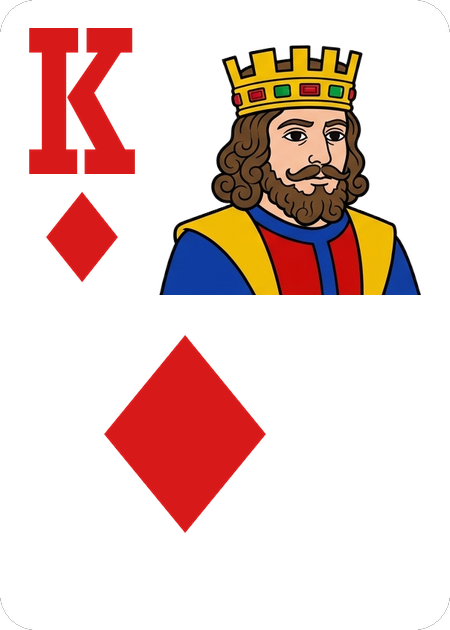
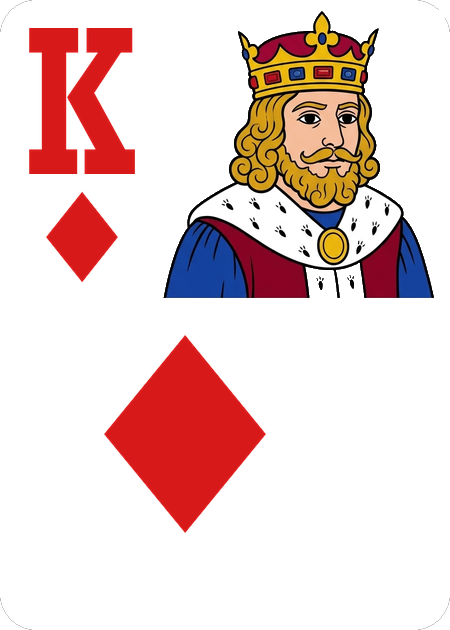
Update Vintage Crest red Kings (K♥, K♦) with blonde hair & crimson-ermine robe (#28, v1.0.26)

Changed region(s): [[0.3422, 0.0, 0.9644, 0.4825]]

diff --git a/app/src/test/java/com/videopoker/android/CardDeckTest.kt b/app/src/test/java/com/videopoker/android/CardDeckTest.kt
@@ -5,6 +5,8 @@ import org.junit.Assert.assertEquals
 import org.junit.Assert.assertTrue
 import org.junit.Test
 import java.io.File
+import javax.imageio.ImageIO
+import kotlin.math.abs
 
 class CardDeckTest {
 
@@ -36,5 +38,48 @@ class CardDeckTest {
                 assertTrue("Missing asset ${assetFile.path}", assetFile.isFile && assetFile.length() > 0L)
             }
         }
+    }
+
+    @Test
+    fun vintageCrestRedKingsMatchEachOtherAndDifferFromBlackKings() {
+        val assetsRoot = listOf(
+            File("src/main/assets"),
+            File("app/src/main/assets")
+        ).firstOrNull { it.isDirectory }
+            ?: error("Could not locate Android assets directory")
+
+        val classicDir = File(assetsRoot, CardDeck.VINTAGE_CREST.assetFolder)
+        val kc = ImageIO.read(File(classicDir, "Kc.png"))
+        val ks = ImageIO.read(File(classicDir, "Ks.png"))
+        val kh = ImageIO.read(File(classicDir, "Kh.png"))
+        val kd = ImageIO.read(File(classicDir, "Kd.png"))
+
+        assertEquals(450, kh.width)
+        assertEquals(630, kh.height)
+        assertEquals(450, kd.width)
+        assertEquals(630, kd.height)
+
+        fun portraitDiffCount(a: java.awt.image.BufferedImage, b: java.awt.image.BufferedImage): Int {
+            var changed = 0
+            for (y in 25 until 302) {
+                for (x in 162 until 432) {
+                    val pa = a.getRGB(x, y)
+                    val pb = b.getRGB(x, y)
+                    val dr = abs(((pa ushr 16) and 0xFF) - ((pb ushr 16) and 0xFF))
+                    val dg = abs(((pa ushr 8) and 0xFF) - ((pb ushr 8) and 0xFF))
+                    val db = abs((pa and 0xFF) - (pb and 0xFF))
+                    if (maxOf(dr, dg, db) > 5) changed++
+                }
+            }
+            return changed
+        }
+
+        // Red Kings match each other, Black Kings match each other, Red & Black differ substantially
+        assertEquals(0, portraitDiffCount(kc, ks))
+        assertEquals(0, portraitDiffCount(kh, kd))
+        assertTrue(
+            "Expected red and black Vintage Crest King portraits to differ cleanly",
+            portraitDiffCount(kc, kh) > 20_000
+        )
     }
 }

diff --git a/app/src/main/java/com/videopoker/android/ui/state/GameState.kt b/app/src/main/java/com/videopoker/android/ui/state/GameState.kt
@@ -62,7 +62,7 @@ data class GameState(
     val showSplash: Boolean = true
 ) {
     companion object {
-        const val APP_VERSION = "1.0.25"
+        const val APP_VERSION = "1.0.26"
     }
 }
 

diff --git a/README.md b/README.md
@@ -1,6 +1,6 @@
 # Video Poker Android
 
-**Version 1.0.25**
+**Version 1.0.26**
 
 Standalone, offline Video Poker trainer and player for Android (Pixel 10 Pro / Pixel 10 Pro XL).
 
